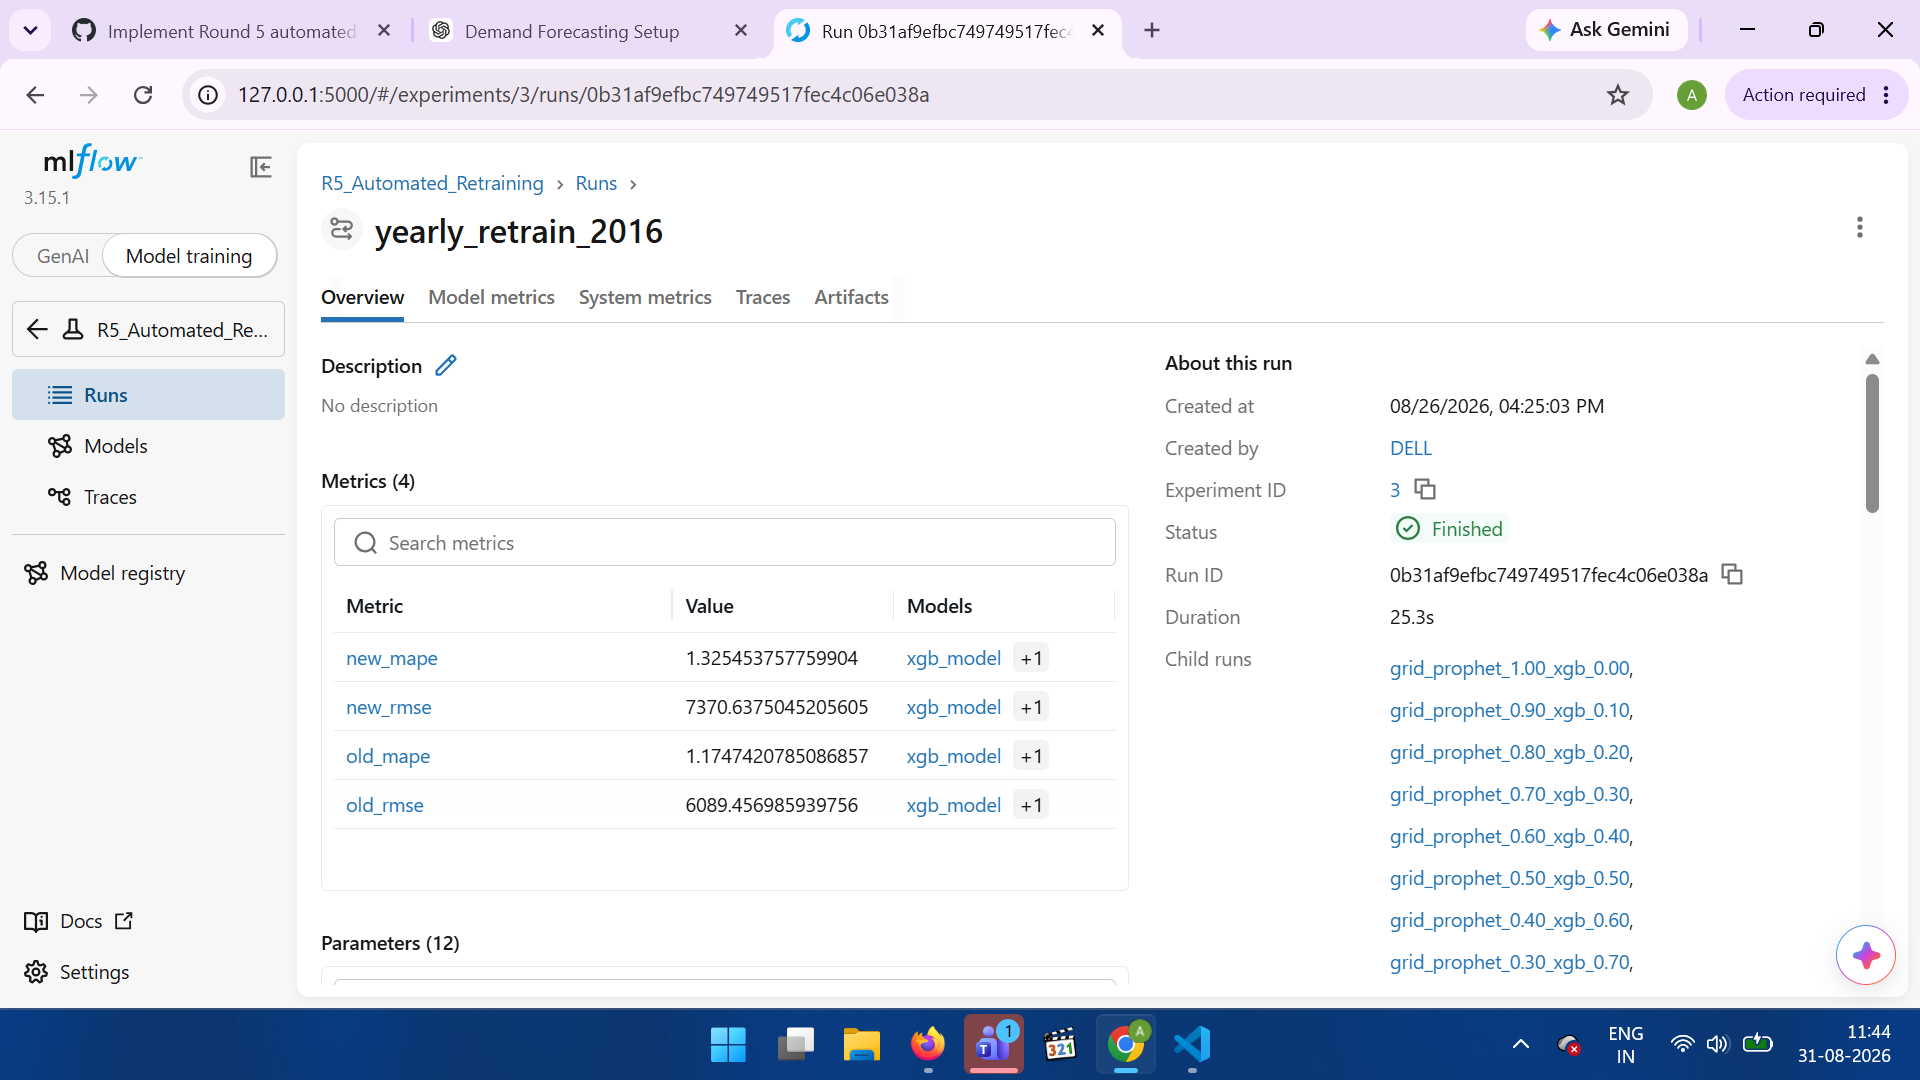
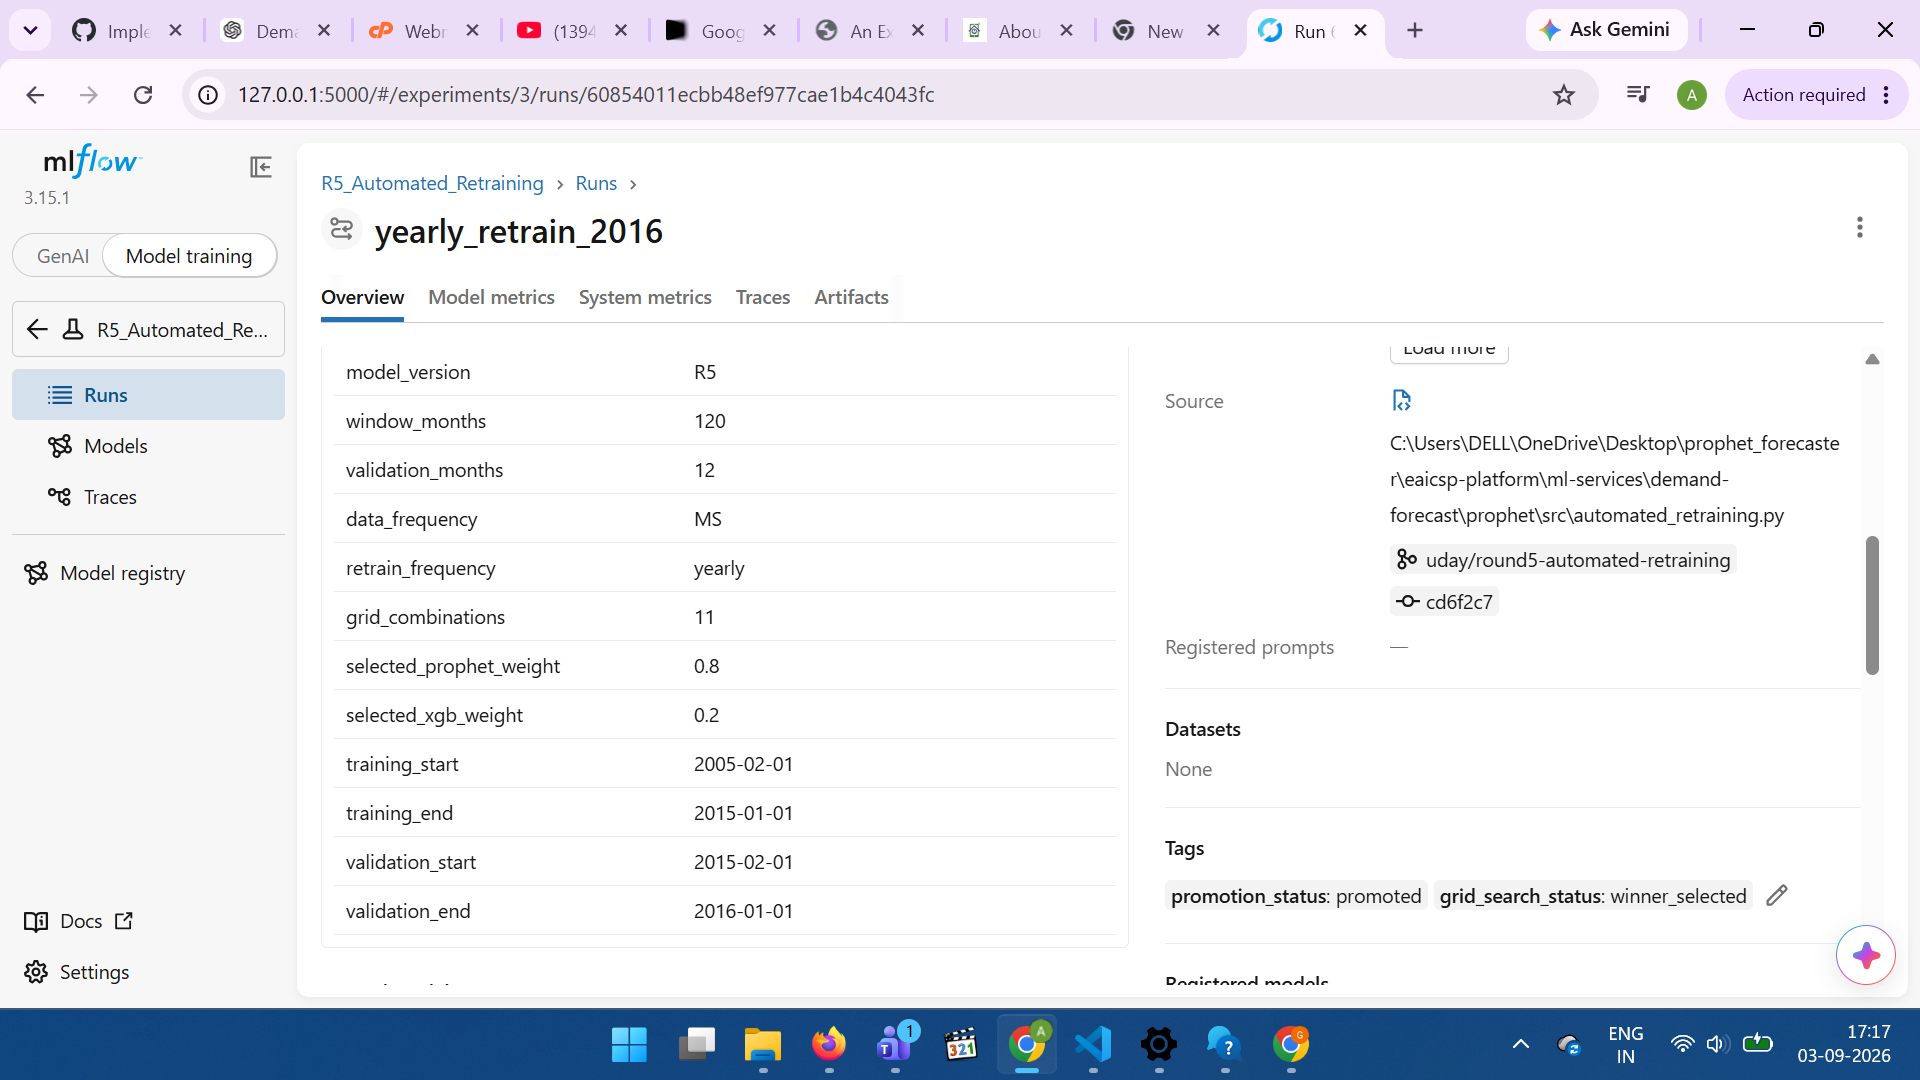
fix: align R5 promotion baseline and evidence

diff --git a/ml-services/demand-forecast/prophet/tests/test_retraining.py b/ml-services/demand-forecast/prophet/tests/test_retraining.py
@@ -457,3 +457,24 @@ def test_multiple_retraining_cycles_execute(monkeypatch):
 
     # Confirm at least two distinct cycles.
     assert len(set(executed_cycles)) >= 2
+def test_rejected_cycle_does_not_advance_baseline(monkeypatch):
+    #A rejected candidate must not become the next cycle's baseline#
+    dates = pd.date_range("2003-01-01", periods=156, freq="MS")
+    data = pd.DataFrame({"ds": dates, "y": range(100, 256)})
+
+    seen_baselines = []
+
+    monkeypatch.setattr(retraining, "prepare_data", lambda: data)
+    monkeypatch.setattr(retraining, "load_existing_baseline", lambda: (5.0, 500.0))
+
+    # Every candidate is worse than the 5.0 promoted baseline.
+    def fake_retrain_once(data, trigger_date, old_mape, old_rmse):
+        seen_baselines.append(old_mape)
+        return 9.0, 900.0
+
+    monkeypatch.setattr(retraining, "retrain_once", fake_retrain_once)
+    retraining.run_retraining()
+
+    # Every cycle must have compared against the ORIGINAL baseline (5.0),
+    # never against the previous rejected candidate (9.0).
+    assert set(seen_baselines) == {5.0}, seen_baselines

diff --git a/ml-services/demand-forecast/prophet/src/automated_retraining.py b/ml-services/demand-forecast/prophet/src/automated_retraining.py
@@ -1429,13 +1429,15 @@ def run_retraining():
             old_rmse,
         )
 
-        if promoted:
-            promoted_count += 1
-        else:
-            rejected_count += 1
-
+    if promoted:
+        promoted_count += 1
+        # Only a promoted candidate becomes the new comparison baseline.
+        # A rejected one must not the next cycle still has to beat the
+        # model that's actually on disk.
         best_mape = new_mape
         best_rmse = new_rmse
+    else:
+        rejected_count += 1
 
     # ========================================================
     # FINAL SUMMARY

diff --git a/ml-services/demand-forecast/prophet/docs/r5_retraining_evidence.md b/ml-services/demand-forecast/prophet/docs/r5_retraining_evidence.md
@@ -1,53 +1,15 @@
-# R5 Automated Retraining Evidence
-
-## Retraining Cycle 1 – 2015
-
-Run Name: yearly_retrain_2015
-
-Status: Finished
-
-Run ID: 70c932d12a7845c582610f0f2ba3ba76
-
-### Model Comparison
-
-| Metric | New Model | Previous Model |
-|---|---:|---:|
-| MAPE | 1.2420446078068748 | 1.1935308534970082 |
-| RMSE | 6135.869405785399 | 6062.616289665733 |
-
-### Ensemble Search
-
-11 ensemble weight combinations were tested automatically.
-
-Selected weights:
-
-- Prophet: 1.0
-- XGBoost: 0.0
-
-### Promotion Decision
-
-Promotion Status: REJECTED
-
-Reason: New model did not outperform the previous promoted model.
-
-Evidence: MLflow screenshot – yearly_retrain_2015
-
----
-
-## Retraining Cycle 2 – 2016
+## Retraining Cycle 0 – Initial Promotion
 
 Run Name: yearly_retrain_2016
 
 Status: Finished
 
-Run ID: 0b31af9efbc749749517fec4c06e038a
+### Model Details
 
-### Model Comparison
-
-| Metric | New Model | Previous Model |
-|---|---:|---:|
-| MAPE | 1.325453757759904 | 1.1935308534970082 |
-| RMSE | 7370.6375045205605 | 6062.616289665733 |
+| Metric | Value |
+|---|---:|
+| MAPE | 1.325453757759904 |
+| RMSE | 7370.6375045205605 |
 
 ### Ensemble Search
 
@@ -60,12 +22,14 @@ Selected weights:
 
 ### Promotion Decision
 
-Promotion Status: REJECTED
+Promotion Status: PROMOTED
 
-Reason: New model did not outperform the previous promoted model.
+Reason: No existing promoted baseline was available, so the candidate
+was promoted as the initial model.
 
-Evidence: MLflow screenshot – yearly_retrain_2016
+MLflow confirms:
 
-![2015 Retraining Cycle](yearly_retrain_2015.png)
+- `promotion_status: promoted`
+- `grid_search_status: winner_selected`
 
-![2016 Retraining Cycle](yearly_retrain_2016.png)
+Evidence: MLflow run `yearly_retrain_2016`

diff --git a/ml-services/demand-forecast/prophet/README.md b/ml-services/demand-forecast/prophet/README.md
@@ -466,6 +466,18 @@ Example yearly runs include:
 `yearly_retrain_2015`
 
 `yearly_retrain_2016`
+### R5 Automated Retraining Result
+
+During automated retraining, ensemble weights are selected dynamically for
+each validation cycle.
+
+For the currently promoted R5 retraining run:
+
+Prophet = 80%
+XGBoost = 20%
+
+MAPE = 1.3255%
+RMSE = 7370.6375
 ### Promoted Baseline
 
 The existing promoted model used as the baseline for the R5 retraining
@@ -475,10 +487,10 @@ simulation has the following metadata:
 |---|---:|
 | Model Version | R5 |
 | Status | Promoted |
-| MAPE | 1.1935% |
-| RMSE | 6062.6163 |
-| Prophet Weight | 0.7 |
-| XGBoost Weight | 0.3 |
+| MAPE | 1.3255% |
+| RMSE | 7370.6375 |
+| Prophet Weight | 0.8 |
+| XGBoost Weight | 0.2 |
 
 This same promoted baseline is used for comparison across yearly
 retraining cycles. A candidate model is promoted only when it outperforms
@@ -569,7 +581,7 @@ python -m pytest tests/test_retraining.py -v
 
 Result:
 
-9 passed
+10 passed
 ## 5. MLflow Evidence
 
 Experiment:
@@ -608,6 +620,18 @@ fed back as lag features.
 
 Therefore, validation MAPE/RMSE may be more optimistic than production
 performance.
+### Validation and Promotion Decision
+
+For the R5 implementation, the same validation window is currently used
+for ensemble weight selection and the promotion comparison.
+
+The validation MAPE is used to select the best Prophet/XGBoost weight
+combination, and the selected candidate is then compared against the
+current promoted baseline.
+
+A separate promotion hold-out or nested validation split would provide a
+more statistically independent promotion gate and can be considered as a
+future enhancement.
 
 ## Definition of Done
 
